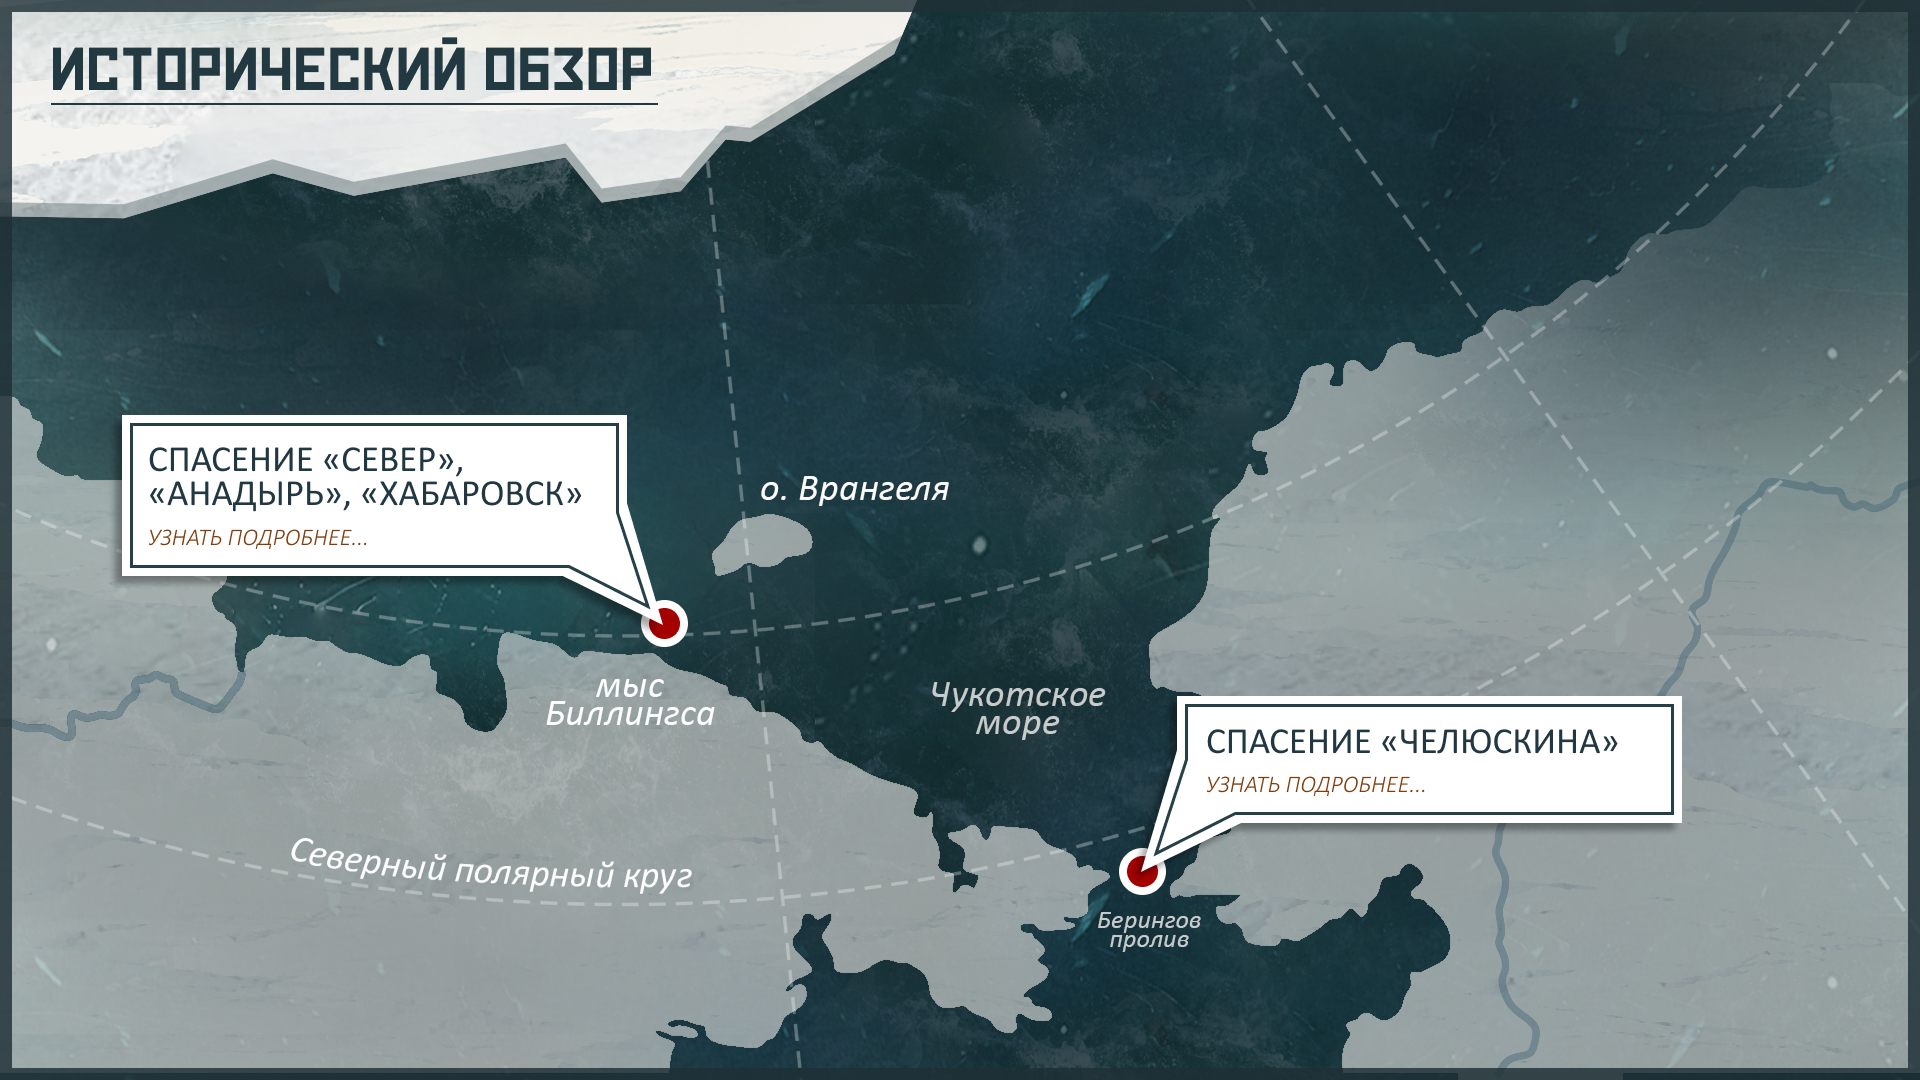
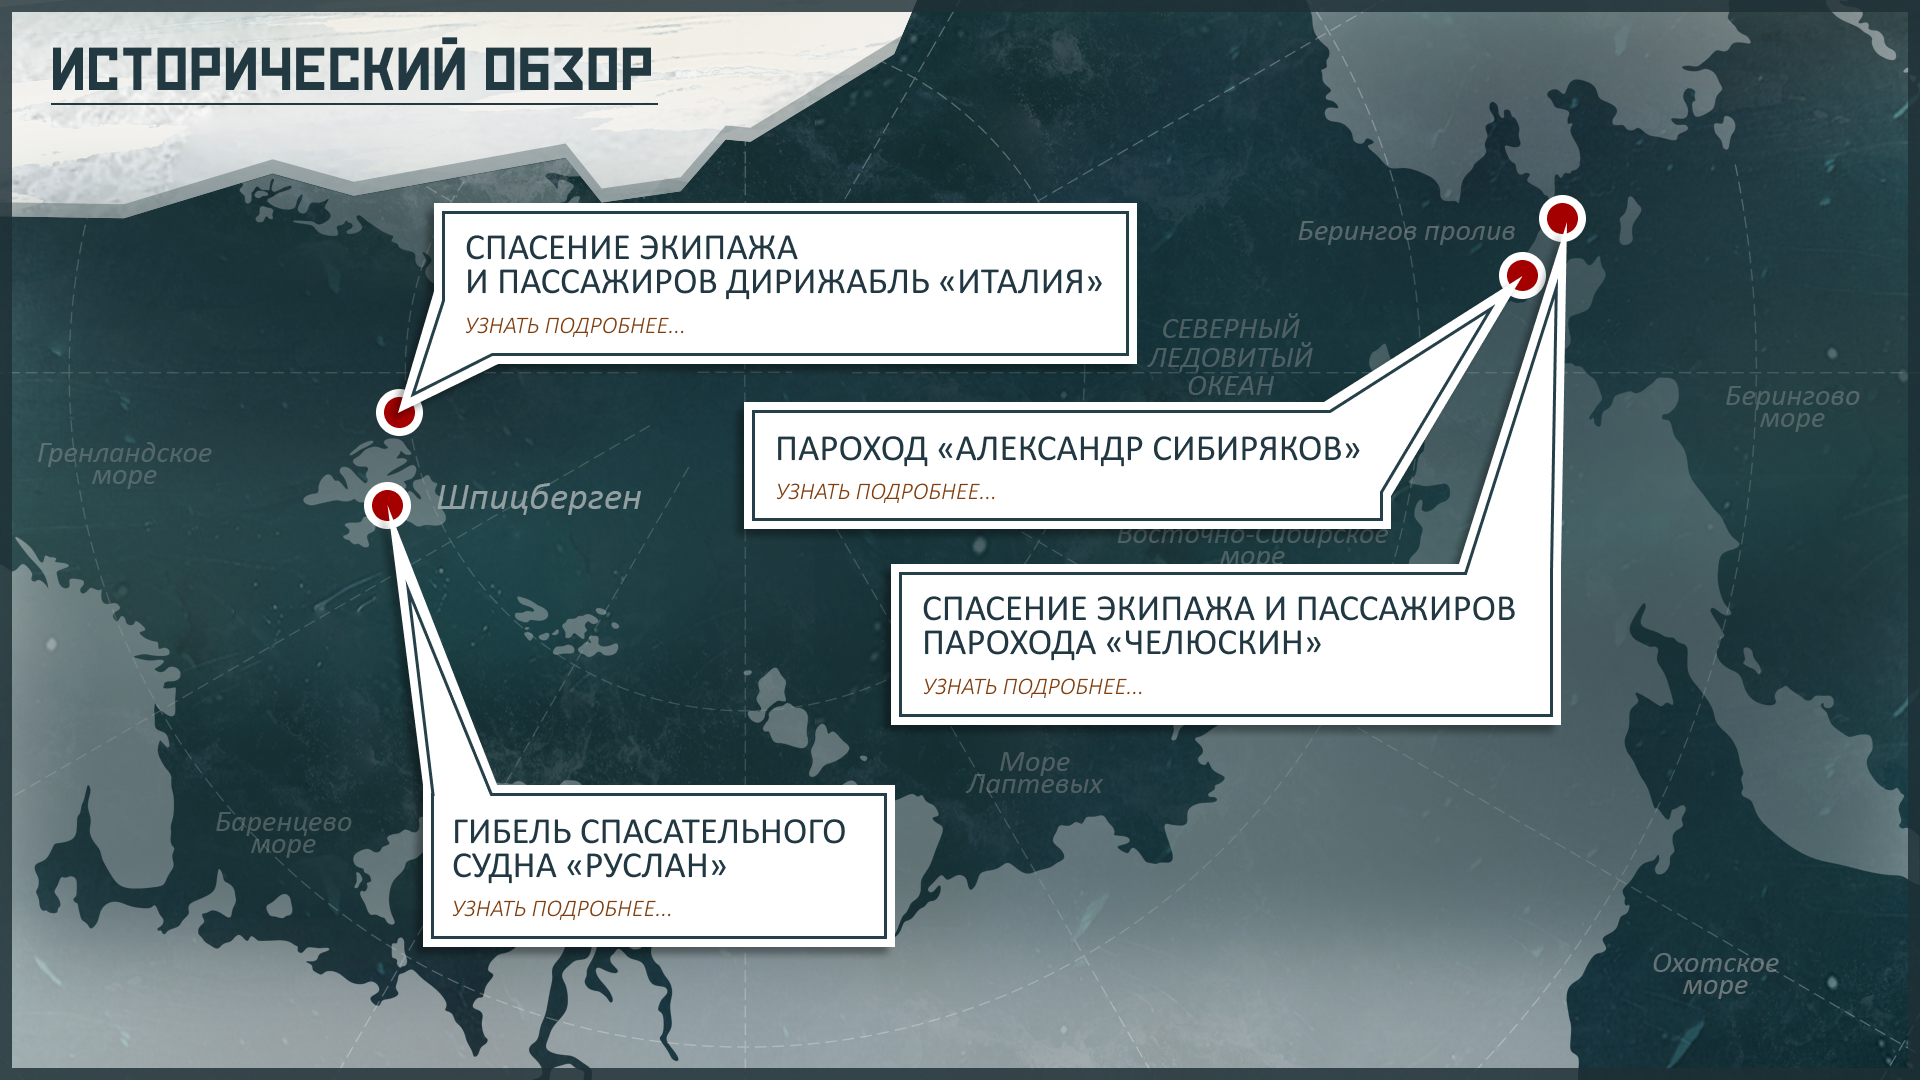
fix

diff --git a/src/index.js b/src/index.js
@@ -4,14 +4,19 @@ import { createBrowserRouter, RouterProvider } from 'react-router';
 import './styles/index.scss';
 
 import MainPage from './Pages/MainPage/index.jsx';
-import HistoricalPage from './Pages/HistoricalPage/index.jsx';
-import Preview from './Pages/Preview/Preview.jsx';
-import CheliuskinaPage from './Pages/HistoricalPage/CheliuskinaPage/index.jsx';
-import NordicPage from './Pages/HistoricalPage/NordicPage/index.jsx';
-import PersonaliPage from './Pages/PersonaliPage/index.jsx';
 import GamesPage from './Pages/GamesPage/index.jsx';
 import FilmsPage from './Pages/FilmsPage/index.jsx';
+import Preview from './Pages/Preview/Preview.jsx';
+
+import HistoricalPage from './Pages/HistoricalPage/index.jsx';
+
+import PersonaliPage from './Pages/PersonaliPage/index.jsx';
 import PersonDetail from './Pages/PersonaliPage/PersonDetail/index.jsx';
+
+import CheluskinaPage from './Pages/HistoricalPage/CheluskinaPage/index.jsx';
+import RuslanPage from './Pages/HistoricalPage/RuslanPage/index.jsx';
+import ItalyPage from './Pages/HistoricalPage/ItalyPage/index.jsx';
+import AlexPage from './Pages/HistoricalPage/AlexPage/index.jsx';
 
 const router = createBrowserRouter([
     {
@@ -27,12 +32,20 @@ const router = createBrowserRouter([
         element: <HistoricalPage />,
     },
     {
-        path: 'nordic',
-        element: <NordicPage />,
+        path: 'ruslan',
+        element: <RuslanPage />,
     },
     {
-        path: 'cheliuskina',
-        element: <CheliuskinaPage />,
+        path: 'cheluskina',
+        element: <CheluskinaPage />,
+    },
+    {
+        path: 'italy',
+        element: <ItalyPage />,
+    },
+    {
+        path: 'alex',
+        element: <AlexPage />,
     },
     {
         path: 'personali',

diff --git a/src/data.js b/src/data.js
@@ -1,8 +1,8 @@
-export const nordic = {
+export const ruslan = {
     title: (
         <>
-            спасение «север», «анадырь», <br />
-            «хабаровск»
+            гибель спасательного <br />
+            судна «руслан»
         </>
     ),
     images: [
@@ -54,8 +54,31 @@ export const nordic = {
     ],
 };
 
-export const cheliuskina = {
-    title: <>спасение «челюскина»,</>,
+export const cheluskina = {
+    title: (
+        <>
+            спасение экипажа и пассажиров <br />
+            парохода «челюскин»,
+        </>
+    ),
+    images: [{ text: 'текст', src: '', title: 'название фото' }],
+    videos: [{ text: 'текст', src: '', title: 'название видео' }],
+    audios: [{ text: 'текст', src: '', title: 'название аудио' }],
+};
+
+export const italy = {
+    title: (
+        <>
+            спасение экипажа <br />и пассажиров дирижабль «италия»,
+        </>
+    ),
+    images: [{ text: 'текст', src: '', title: 'название фото' }],
+    videos: [{ text: 'текст', src: '', title: 'название видео' }],
+    audios: [{ text: 'текст', src: '', title: 'название аудио' }],
+};
+
+export const alex = {
+    title: <>пароход «александр сибиряков»,</>,
     images: [{ text: 'текст', src: '', title: 'название фото' }],
     videos: [{ text: 'текст', src: '', title: 'название видео' }],
     audios: [{ text: 'текст', src: '', title: 'название аудио' }],

diff --git a/src/components/Footer/index.jsx b/src/components/Footer/index.jsx
@@ -1,34 +1,27 @@
-import { Link, useLocation, useNavigate } from 'react-router';
+import { Link, useLocation } from 'react-router';
 
 import HomeIcon from '@mui/icons-material/Home';
 import ArrowBackIcon from '@mui/icons-material/ArrowBack';
 import styles from './Footer.module.css';
 
 const Footer = () => {
-
-    const navigate = useNavigate();
     const location = useLocation();
     const isMainPage = location.pathname === '/main';
-
-    const handleBack = () => {
-        navigate(-1);
-    };
 
     return (
         <>
             <div className={styles.footer}>
-                <Link to="/main" className={styles.button_home}>
+                <Link to="/main" className={`${styles.button_footer} ${isMainPage ? styles.button_footer_main : ''}`}>
                     <HomeIcon style={{ width: '50px', height: '50px' }} />
                 </Link>
                 {!isMainPage && (
-                    <Link onClick={handleBack} className={styles.button_back}>
+                    <Link to="/main" className={`${styles.button_footer} ${isMainPage ? styles.button_footer_main : ''}`}>
                         <ArrowBackIcon style={{ width: '50px', height: '50px' }} />
                     </Link>
                 )}
             </div>
         </>
     );
-
 };
 
 export default Footer;

diff --git a/src/Pages/HistoricalPage/index.jsx b/src/Pages/HistoricalPage/index.jsx
@@ -7,19 +7,30 @@ import Footer from '../../components/Footer';
 const HistoricalPage = () => {
     const navigate = useNavigate();
 
-    const handleNordicClick = () => {
-        navigate('/nordic');
+    const handleRuslanClick = () => {
+        navigate('/ruslan');
     };
 
-    const handleCheliuskinaClick = () => {
-        navigate('/cheliuskina');
+    const handleCheluskinaClick = () => {
+        navigate('/cheluskina');
     };
+
+    const handleItalyClick = () => {
+        navigate('/italy');
+    };
+
+    const handleAlexClick = () => {
+        navigate('/alex');
+    };
+
     return (
         <>
             <div className={styles.container}>
                 <Header />
-                <div className={styles.nordic} onClick={handleNordicClick}></div>
-                <div className={styles.cheliuskina} onClick={handleCheliuskinaClick}></div>
+                <div className={styles.ruslan} onClick={handleRuslanClick}></div>
+                <div className={styles.cheluskina} onClick={handleCheluskinaClick}></div>
+                <div className={styles.italy} onClick={handleItalyClick}></div>
+                <div className={styles.alex} onClick={handleAlexClick}></div>
                 <Footer />
             </div>
         </>

diff --git a/src/components/Footer/Footer.module.css b/src/components/Footer/Footer.module.css
@@ -6,33 +6,22 @@
     left: 3%;
 }
 
-.button_home {
+.button_footer {
     display: flex;
     justify-content: center;
     align-items: center;
-    width: 77px;
-    height: 77px;
+    width: 86px;
+    height: 86px;
     border-radius: 50%;
     border: none;
-    outline: 3px solid rgba(25, 54, 60, 1) !important;
     outline-offset: 6px;
-    background: rgba(255, 255, 255, 0.25);
+    outline: 3px solid rgba(25, 54, 60, 1) !important;
+    background: rgba(63, 78, 83, 1);
     color: #ffffff;
-
     cursor: pointer;
 }
 
-.button_back {
-    display: flex;
-    justify-content: center;
-    align-items: center;
-    width: 77px;
-    height: 77px;
-    border-radius: 50%;
-    border: none;
+.button_footer_main {
     outline: 3px solid rgba(25, 54, 60, 1) !important;
-    outline-offset: 6px;
     background: rgba(255, 255, 255, 0.25);
-    color: #ffffff;
-    cursor: pointer;
 }

diff --git a/src/Pages/HistoricalPage/Historical.module.css b/src/Pages/HistoricalPage/Historical.module.css
@@ -10,20 +10,38 @@
     background-repeat: no-repeat;
 }
 
-.nordic {
+.ruslan {
     position: absolute;
-    top: 26%;
-    left: 5%;
-    width: 580px;
-    height: 350px;
+    bottom: 9%;
+    left: 22%;
+    width: 460px;
+    height: 160px;
     cursor: pointer;
 }
 
-.cheliuskina {
+.cheluskina {
     position: absolute;
-    bottom: 10%;
-    right: 12%;
-    width: 580px;
-    height: 350px;
+    bottom: 31%;
+    right: 18%;
+    width: 670px;
+    height: 160px;
+    cursor: pointer;
+}
+
+.alex {
+    position: absolute;
+    top: 36%;
+    right: 27%;
+    width: 640px;
+    height: 125px;
+    cursor: pointer;
+}
+
+.italy {
+    position: absolute;
+    top: 16%;
+    left: 22%;
+    width: 690px;
+    height: 160px;
     cursor: pointer;
 }

diff --git a/src/Pages/HistoricalPage/CheluskinaPage/index.jsx b/src/Pages/HistoricalPage/CheluskinaPage/index.jsx
@@ -1,0 +1,8 @@
+import Menu from '../../../components/Menu';
+import { cheluskina } from '../../../data';
+
+const CheluskinaPage = () => {
+    return <Menu data={cheluskina} />;
+};
+
+export default CheluskinaPage;

diff --git a/src/Pages/HistoricalPage/RuslanPage/index.jsx b/src/Pages/HistoricalPage/RuslanPage/index.jsx
@@ -1,0 +1,8 @@
+import Menu from '../../../components/Menu';
+import { ruslan } from '../../../data';
+
+const RuslanPage = () => {
+    return <Menu data={ruslan} />;
+};
+
+export default RuslanPage;

diff --git a/src/Pages/HistoricalPage/ItalyPage/index.jsx b/src/Pages/HistoricalPage/ItalyPage/index.jsx
@@ -1,0 +1,8 @@
+import Menu from '../../../components/Menu';
+import { italy } from '../../../data';
+
+const ItalyPage = () => {
+    return <Menu data={italy} />;
+};
+
+export default ItalyPage;

diff --git a/src/Pages/HistoricalPage/AlexPage/index.jsx b/src/Pages/HistoricalPage/AlexPage/index.jsx
@@ -1,0 +1,8 @@
+import Menu from '../../../components/Menu';
+import { alex } from '../../../data';
+
+const AlexPage = () => {
+    return <Menu data={alex} />;
+};
+
+export default AlexPage;

diff --git a/src/components/Menu/MenuPage.module.css b/src/components/Menu/MenuPage.module.css
@@ -28,6 +28,7 @@
 
 .subtitle {
     display: flex;
+    align-items: center;
     margin: 10px 15px 15px 15px;
     font-family: 'Snowstorm', arial;
     text-transform: uppercase;
